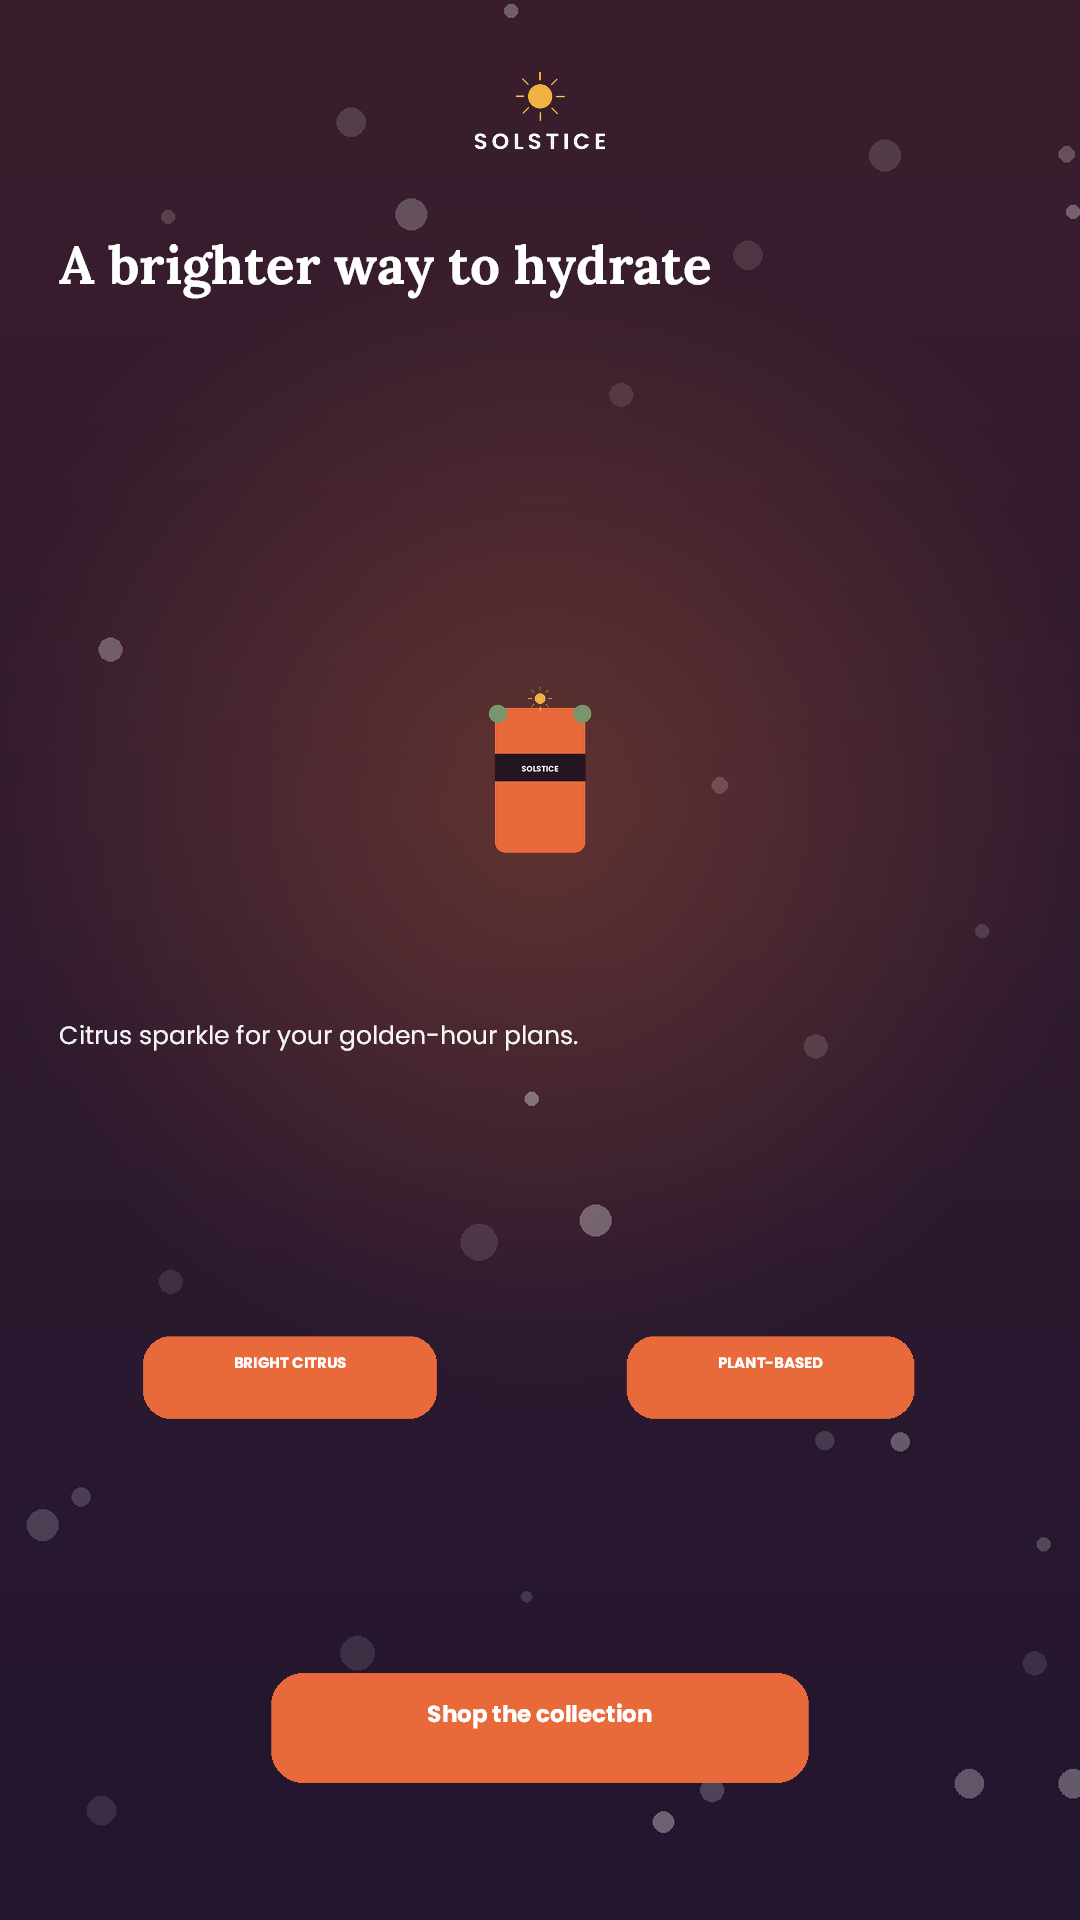
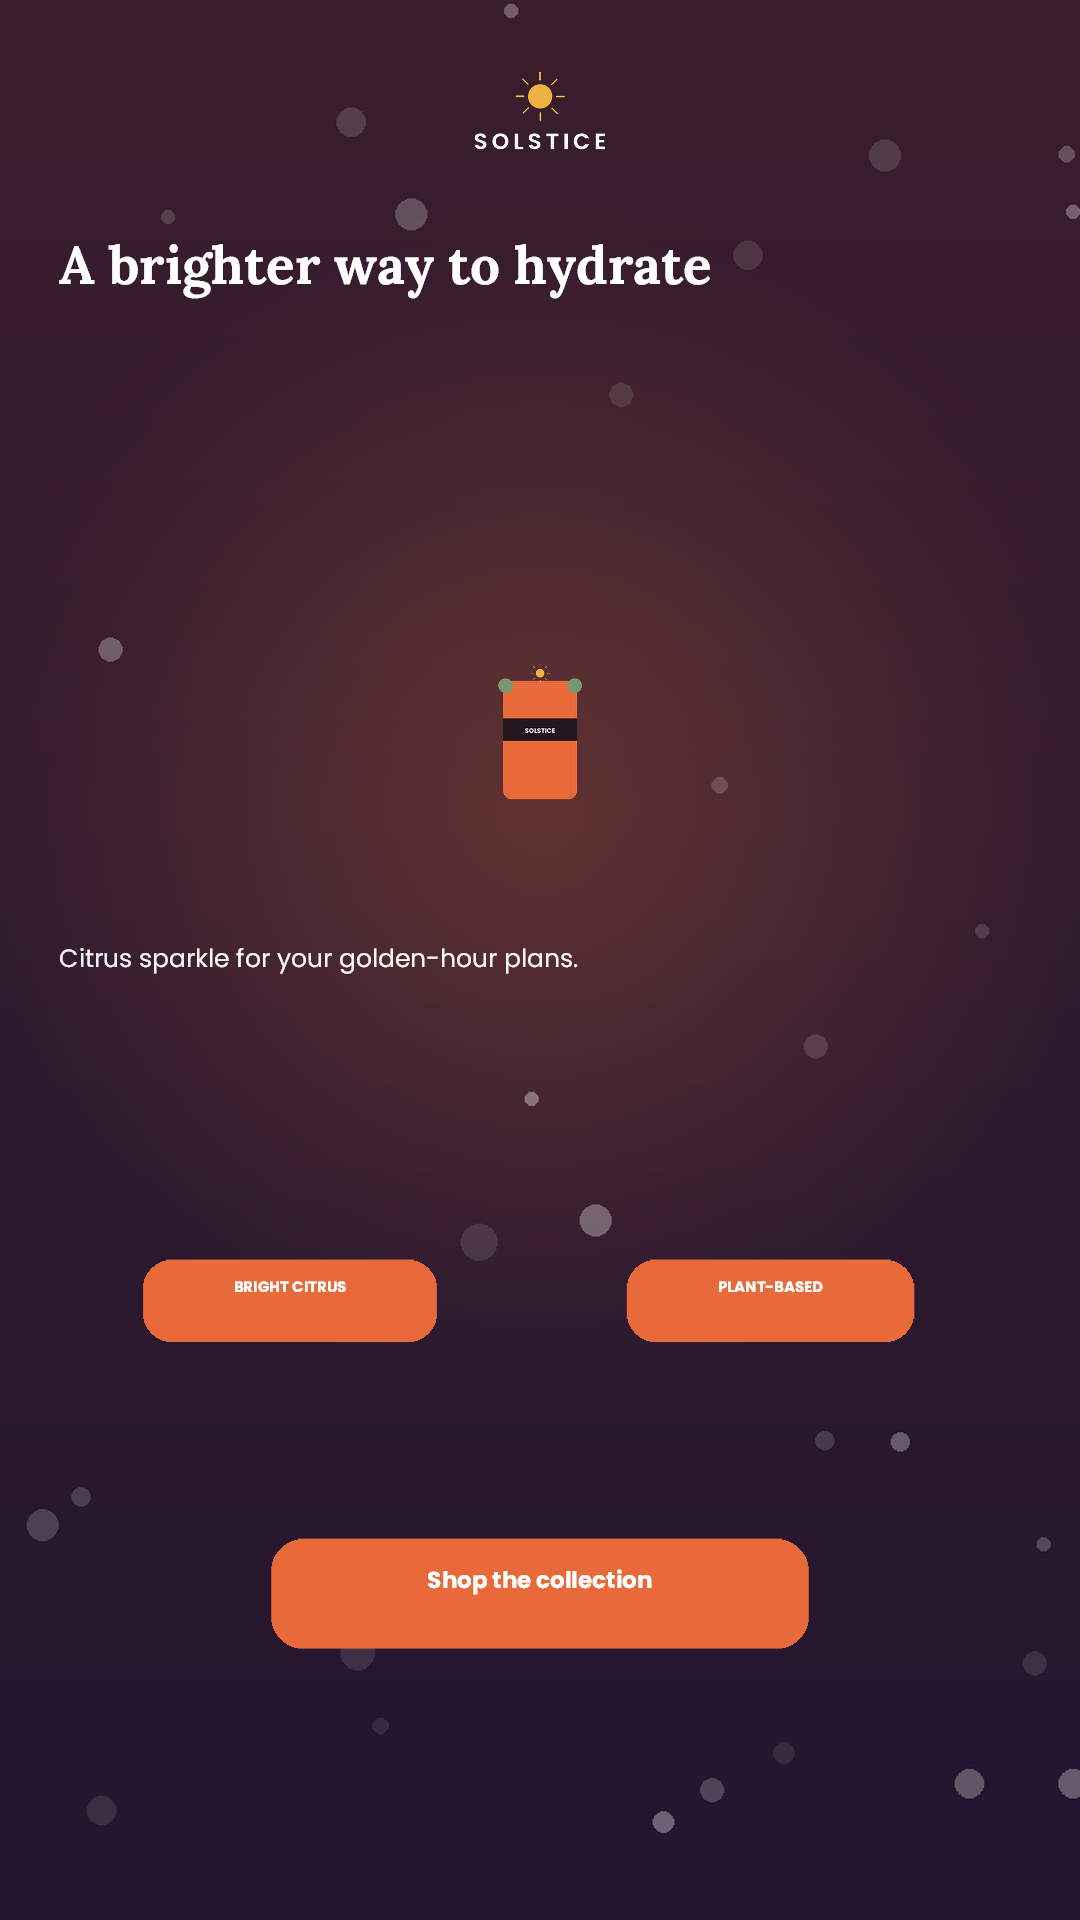
Tighten tall story layout bands

diff --git a/engine/chameleon/planner.py b/engine/chameleon/planner.py
@@ -529,10 +529,10 @@ def _layout(dna: DesignDNA, family: str, variant: int = 0) -> dict[str, Any]:
             _apply_rect(dna, by_id, f.id, (mx, ch * (0.12 + i * (0.16 / head_n)), cw - 2 * mx, head_h), assigned)
         if heroes:
             for i, f in enumerate(sorted(heroes, key=lambda a: -a.importance)):
-                _apply_rect(dna, by_id, f.id, (cw * (0.30 + 0.12 * i), ch * 0.29, cw * (0.40 if i == 0 else 0.24), ch * (0.22 if i == 0 else 0.13)), assigned)
+                _apply_rect(dna, by_id, f.id, (cw * (0.30 + 0.12 * i), ch * 0.29, cw * (0.40 if i == 0 else 0.24), ch * (0.18 if i == 0 else 0.12)), assigned)
         copy_facts = sorted(subs + bodies, key=lambda f: (float(f.element.get("y", 0)), f.center[0]))
         if copy_facts:
-            copy_start = ch * (0.53 if heroes else 0.31)
+            copy_start = ch * (0.49 if heroes else 0.31)
             copy_band = min(ch * 0.18, max(ch * 0.08, ch * 0.14 * len(copy_facts))) / len(copy_facts)
             for i, f in enumerate(copy_facts):
                 _apply_rect(dna, by_id, f.id, (mx, copy_start + i * copy_band, cw - 2 * mx, copy_band * 0.9), assigned)
@@ -551,9 +551,9 @@ def _layout(dna: DesignDNA, family: str, variant: int = 0) -> dict[str, Any]:
                 x = mx + col * (available_w / columns)
                 y = badge_start + row * (row_h + gap_y)
                 _apply_rect(dna, by_id, dna.groups[gid][0], (x, y, available_w / columns - gap_x, row_h), assigned)
-            cta_y = max(ch * 0.84, badge_start + rows * (row_h + gap_y))
+            cta_y = max(ch * 0.77, badge_start + rows * (row_h + gap_y))
         else:
-            cta_y = max(ch * 0.78, badge_start)
+            cta_y = max(ch * 0.77, badge_start)
         for gid in cta_groups:
             _apply_rect(dna, by_id, dna.groups[gid][0], (cw * 0.10, min(ch * 0.89, cta_y), cw * 0.80, ch * 0.12), assigned)
         for f in standalone_ctas:

diff --git a/tests/test_engine.py b/tests/test_engine.py
@@ -133,6 +133,19 @@ class EngineContractTests(unittest.TestCase):
             self.assertAlmostEqual(output_bounds[1] / source_bounds[1], scale, delta=0.01)
             self.assertLessEqual(scale, 1.25 + 1e-6)
 
+    def test_tall_story_bands_close_hero_copy_and_action_gaps(self):
+        fixture = json.loads((ROOT / "evidence" / "curated" / "sidecar" / "source.json").read_text(encoding="utf-8"))
+        output = resize(fixture["source"], {"width": 1080, "height": 1920})
+        by_id = {element["id"]: element for element in output["elements"]}
+        hero = by_id["hero_product"]
+        copy = by_id["supporting_copy"]
+        self.assertLessEqual(float(hero["y"]) + float(hero["height"]), float(copy["y"]))
+        self.assertLess(float(by_id["cta_background"]["y"]), 1920 * 0.84)
+
+        badge = self._union_bounds([by_id["citrus_badge_background"], by_id["plant_badge_background"]])
+        cta = by_id["cta_background"]
+        self.assertLessEqual(badge[3], float(cta["y"]))
+
     @staticmethod
     def _union_size(elements):
         x0 = min(float(element["x"]) for element in elements)
@@ -140,6 +153,14 @@ class EngineContractTests(unittest.TestCase):
         x1 = max(float(element["x"]) + float(element["width"]) for element in elements)
         y1 = max(float(element["y"]) + float(element["height"]) for element in elements)
         return x1 - x0, y1 - y0
+
+    @staticmethod
+    def _union_bounds(elements):
+        x0 = min(float(element["x"]) for element in elements)
+        y0 = min(float(element["y"]) for element in elements)
+        x1 = max(float(element["x"]) + float(element["width"]) for element in elements)
+        y1 = max(float(element["y"]) + float(element["height"]) for element in elements)
+        return x0, y0, x1, y1
 
     def test_metamorphic_identity_and_small_aspect_change(self):
         for task in _official_tasks():

diff --git a/evidence/FINAL_REPORT.md b/evidence/FINAL_REPORT.md
@@ -25,20 +25,20 @@
 
 ## Stage 1 results
 
-16. **Level 1:** 1080×1080 to 1080×1350, 4 elements, stack, 12 candidates, 0 repairs, 0.05813 s in the refreshed local benchmark. Internal proxy 68 to 100; starter distorted logo aspect by 20%; current report has no issues.
-17. **Level 2:** 1080×1080 to 1600×400, 11 elements, banner, 18 candidates, 0 repairs, 0.09464 s. Internal proxy 0 to 100; starter distorted logo/product by 300%; current report has no issues.
-18. **Level 3:** 1080×1350 to 728×90, 17 elements, banner, 18 candidates, 0 repairs, 0.29529 s. Internal proxy 0 to 100; starter distorted three image ratios, had two out-of-bounds items, and reduced headline/subhead/legal text to 2.7/1.5/1.0 px. Current sizes are 15.09/8.45/7.91 px; supporting text is still too small. Renderer uses a placeholder for the missing optional badge; no replacement asset was made.
+16. **Level 1:** 1080×1080 to 1080×1350, 4 elements, stack, 12 candidates, 0 repairs, 0.04098 s in the refreshed local benchmark. Internal proxy 68 to 100; starter distorted logo aspect by 20%; current report has no issues.
+17. **Level 2:** 1080×1080 to 1600×400, 11 elements, banner, 18 candidates, 0 repairs, 0.09457 s. Internal proxy 0 to 100; starter distorted logo/product by 300%; current report has no issues.
+18. **Level 3:** 1080×1350 to 728×90, 17 elements, banner, 18 candidates, 0 repairs, 0.40730 s. Internal proxy 0 to 100; starter distorted three image ratios, had two out-of-bounds items, and reduced headline/subhead/legal text to 2.7/1.5/1.0 px. Current sizes are 15.09/8.45/7.91 px; supporting text is still too small. Renderer uses a placeholder for the missing optional badge; no replacement asset was made.
 19. Baseline JSON/PNGs remain under evidence/baseline. Baseline scores 68/0/0 and current scores 100/100/100 are internal proxy values on three supplied fixtures only.
-20. **Tests:** 23/23 passed with .venv Python unittest discovery (49.789 s). Coverage includes official contracts/rendering, metamorphic identity and small change, typography, hierarchy, CTA group geometry, tall-format control sizing, banner regressions, grouping, repair/fallback, stress/mutations, and local Finale API integration.
+20. **Tests:** 24/24 passed with .venv Python unittest discovery (33.752 s). Coverage includes official contracts/rendering, metamorphic identity and small change, typography, hierarchy, CTA group geometry, tall-format control sizing and band spacing, banner regressions, grouping, repair/fallback, stress/mutations, and local Finale API integration.
 21. **Stress/mutations:** 64 generated stress cases (up to 45 elements) and 45 official-input mutations; three representative synthetic stress inputs and before/after renders are preserved in evidence/stress with a reproducible exporter. Synthetic fixtures do not prove hidden-brand generalization.
 22. **Structural validity:** 100% in both suites; all official outputs hard-valid under the internal validator. Tests cover IDs, counts, text, fonts, and image references.
 23. **Collisions and hierarchy:** 100% no-new-collision rate across both suites and zero hierarchy regressions in the latest full benchmark. The collision metric is source-relative: it detects new or worsened overlaps, so pre-existing clutter in the 45-element synthetic cases is not counted as a collision regression. See evidence/stress/visual-review.md.
 24. **Clipping:** zero clipping cases in official, stress, and mutation reports. This does not mean all text is comfortable to read.
 25. **Image fidelity:** zero current image-ratio failures in official/stress/mutation evidence. Baseline had 1, 2, and 3 failures respectively.
 26. **Determinism:** 100% in stress/mutation reports. Two network-disabled Docker runs were byte-identical for all three samples and matched evidence/docker outputs.
-27. **Runtime:** the current Windows venv benchmark stress median/p95 were 0.158695/1.04362 s. Docker sample runs took 0.16–0.18/0.19–0.25/0.30 s for Levels 1–3. Timing varies by host and run.
+27. **Runtime:** the current Windows venv benchmark stress median/p95 were 0.14609/1.00193 s. Docker sample runs took 0.14–0.21/0.21–0.23/0.32–0.37 s for Levels 1–3. Timing varies by host and run.
 28. **Docker:** linux/amd64 build succeeded. All three official samples ran and rendered twice under --network none, returning OK with zero validator issues and byte-identical JSON/PNGs; only a nonfatal Fontconfig warning. JSON/PNG hashes matched across runs; PNG hashes were also unchanged from prior validated samples. See evidence/docker/validation.md.
-29. **Visual inspection:** Level 1 preserves identity and uses more of the taller canvas. Level 2 changes the compressed starter into a horizontal hierarchy with proportional product imagery and a compact pill-shaped action. Level 3 becomes a deliberate row/banner rather than a crushed design, but its supporting/legal type remains minute. Two hand-composed synthetic campaigns (9 and 11 elements) now cover nine target renders: the first produces a readable 300×600 stack and 728×90 banner; the second retains a clear 1600×900 copy/product split and a strong 300×600 story, while its 1080×1920 output has excessive vertical gaps. CTA and badge groups retain their proportions on taller canvases. Synthetic_001 makes a clear narrow portrait stack. Synthetic_005 and synthetic_028 are already cluttered at input and remain cluttered after resize; source-relative zero-new-collision metrics do not establish absolute legibility. See evidence/curated/visual-review.md, evidence/curated/sidecar/visual-review.md, evidence/stress/visual-review.md, evidence/final, evidence/baseline, and evidence/gallery.
+29. **Visual inspection:** Level 1 preserves identity and uses more of the taller canvas. Level 2 changes the compressed starter into a horizontal hierarchy with proportional product imagery and a compact pill-shaped action. Level 3 becomes a deliberate row/banner rather than a crushed design, but its supporting/legal type remains minute. Two hand-composed synthetic campaigns (9 and 11 elements) now cover nine target renders: the first produces a readable 300×600 stack and 728×90 banner; the second retains a clear 1600×900 copy/product split and a strong 300×600 story. Its updated 1080×1920 bands are tighter, though a broad interval remains between copy and badges; transparent product artwork still looks small in the 300×600 output. CTA and badge groups retain their proportions on taller canvases. Synthetic_001 makes a clear narrow portrait stack. Synthetic_005 and synthetic_028 are already cluttered at input and remain cluttered after resize; source-relative zero-new-collision metrics do not establish absolute legibility. See evidence/curated/visual-review.md, evidence/curated/sidecar/visual-review.md, evidence/stress/visual-review.md, evidence/final, evidence/baseline, and evidence/gallery.
 30. **Weaknesses:** Only three official examples; two synthetic human-reviewed sources remain a small sample; role/contrast heuristics; missing optional asset placeholder; tiny Level 3 supporting copy; excess vertical spacing in one tall synthetic adaptation; hidden-design quality and Adobe score unknown. See ../docs/failure-taxonomy.md.
 31. **Research:** ../docs/research-notes.md covers LayoutGAN, constrained layout, WCAG contrast and metamorphic checks. ../docs/finale-research.md links current Adobe documentation and distinguishes API capability from local evidence.
 
@@ -52,7 +52,7 @@
 
 ## Git and readiness
 
-37. **Local commits:** The 46 commits preceding this final report update are listed below; this final validation/report update is the 47th local commit.
+37. **Local commits:** The 47 commits preceding this final report update are listed below; this final validation/report update is the 48th local commit.
 38. **Working tree:** clean after the final local validation and this report update.
 39. **Push/deploy:** nothing pushed or deployed.
 40. **Stage 1 judgment:** Credible and materially stronger than the starter on available samples, but not proven submission-ready for hidden designs. Three official samples, a small hand-composed synthetic fixture, adversarial synthetic suites, visual inspection, and an internal proxy do not prove generalization; Level 3 readability and poor-source recovery remain weaknesses.
@@ -107,4 +107,5 @@ c410ebd Add independent curated layout evaluation
 2109fcb Record final Docker benchmark validation
 8b25fee Improve responsive CTA group layout
 498a009 Add independent sidecar layout fixture
+caba8c3 Cap tall-format button group scaling
 ```

diff --git a/docs/engineering-walkthrough.md b/docs/engineering-walkthrough.md
@@ -22,6 +22,8 @@ Depending on target aspect ratio, the planner emits 12 or 18 candidates from sou
 
 CTA and badge groups preserve their source proportions when the target has enough height, so rounded controls do not become vertically stretched. On taller formats their group scale is capped at 1.25× the source to avoid oversized color slabs when text size remains source-capped. Short banners use a wider CTA lane and a modestly taller label box inside the button; this grows the text area without pushing the button into the legal-copy row.
 
+Narrow story layouts use compact hero and copy bands followed by badges and actions. The hero frame ends before the supporting-copy band, and the CTA floor moves upward when the badge rows leave room. The bundled product image contains substantial transparent padding, so its visible product can still appear small even when the image frame uses its assigned space.
+
 The local proxy reports canvas legality, image fidelity, measured text fit, collisions, group cohesion, target adaptation, canvas use, sampled contrast, and source-relative hierarchy. It is a ranking aid, not Adobe's score. Existing hierarchy ratios are treated as source constraints; candidates are penalized when they materially worsen them. Overlap already present in the source is not called new unless the output worsens it; documented corner bleed is treated similarly when its normalized amount does not increase. New or worsened violations remain penalized. Candidate score, family, variant, validity, and issues are available in diagnostics. The recurring failure classes and latest residual cases are tracked in [failure taxonomy](failure-taxonomy.md).
 
 ## Repair and placement explanations

diff --git a/evidence/curated/sidecar/visual-review.md b/evidence/curated/sidecar/visual-review.md
@@ -8,8 +8,8 @@ through each renderer-backed adaptation.
 |---|---|---|
 | 1600×900 landscape | `banner` | Retains a clear copy column and product rail. The empty center is broad, but the hierarchy remains easy to scan. [Render](wide_landscape_output.png) |
 | 728×90 leaderboard | `banner` | Headline and supporting copy fit the narrow strip; the CTA remains distinct. Supporting copy is small at this size. [Render](leaderboard_output.png) |
-| 300×600 story | `stack` | Strong vertical reading order with clear headline, product, body, badges, and a readable primary action. [Render](story_output.png) |
-| 1080×1920 vertical story | `stack` | All elements remain legal and readable. CTA and badge fills now keep source proportions and are capped at modest growth, but large vertical intervals still separate the title, product, copy, and actions. [Render](vertical_story_output.png) |
+| 300×600 story | `stack` | The tighter bands keep headline, copy, badges, and action in a clear order. The product remains small because the original square asset has transparent margins. [Render](story_output.png) |
+| 1080×1920 vertical story | `stack` | The tighter bands bring the hero closer to the copy and move actions upward. CTA and badge fills keep source proportions and are capped at modest growth; a broad interval remains between copy and benefit badges. [Render](vertical_story_output.png) |
 | 300×250 medium rectangle | `banner` | Compact, legible hierarchy with all elements present. The product and logo are small but recognizable. [Render](medium_rectangle_output.png) |
 
 The evaluation script reports preserved IDs/counts, copy, font families, image

diff --git a/evidence/docker/validation.md b/evidence/docker/validation.md
@@ -1,6 +1,6 @@
 # Offline Docker validation
 
-Revalidated after the tall-format CTA/badge scale cap on 2026-10-16 with Docker Desktop 4.77.0 and engine 29.5.3.
+Revalidated after the tall-format CTA/badge scale cap and portrait-band spacing adjustment on 2026-10-16 with Docker Desktop 4.77.0 and engine 29.5.3.
 
 Build for the challenge architecture:
 
@@ -21,9 +21,9 @@ docker run --rm --network none `
 
 Two consecutive runs completed with `OK`, and the repository validator reported zero issues for every output:
 
-- Level 1: 0.16–0.18 s; PNG 107,497 bytes
-- Level 2: 0.19–0.25 s; PNG 69,531 bytes
-- Level 3: 0.30 s both runs; PNG 43,235 bytes
+- Level 1: 0.14–0.21 s; PNG 107,497 bytes
+- Level 2: 0.21–0.23 s; PNG 69,531 bytes
+- Level 3: 0.32–0.37 s; PNG 43,235 bytes
 
 Two consecutive `--network none` runs produced byte-identical JSON and PNG
 outputs for all three official samples. PNG SHA-256 values: Level 1

diff --git a/evidence/benchmark/report.md b/evidence/benchmark/report.md
@@ -12,7 +12,7 @@ This score is an internal proxy, not Adobe's hidden evaluator.
 - Stress hierarchy regressions: 0 across 0 cases
 - No-new-collision rate (source-relative): 100.0%
 - Determinism rate: 100.0%
-- Stress runtime median / p95: 0.1587s / 1.0436s
+- Stress runtime median / p95: 0.1461s / 1.0019s
 
 - Mutation structural validity: 100.0%
 - Mutation off-canvas cases: 0
